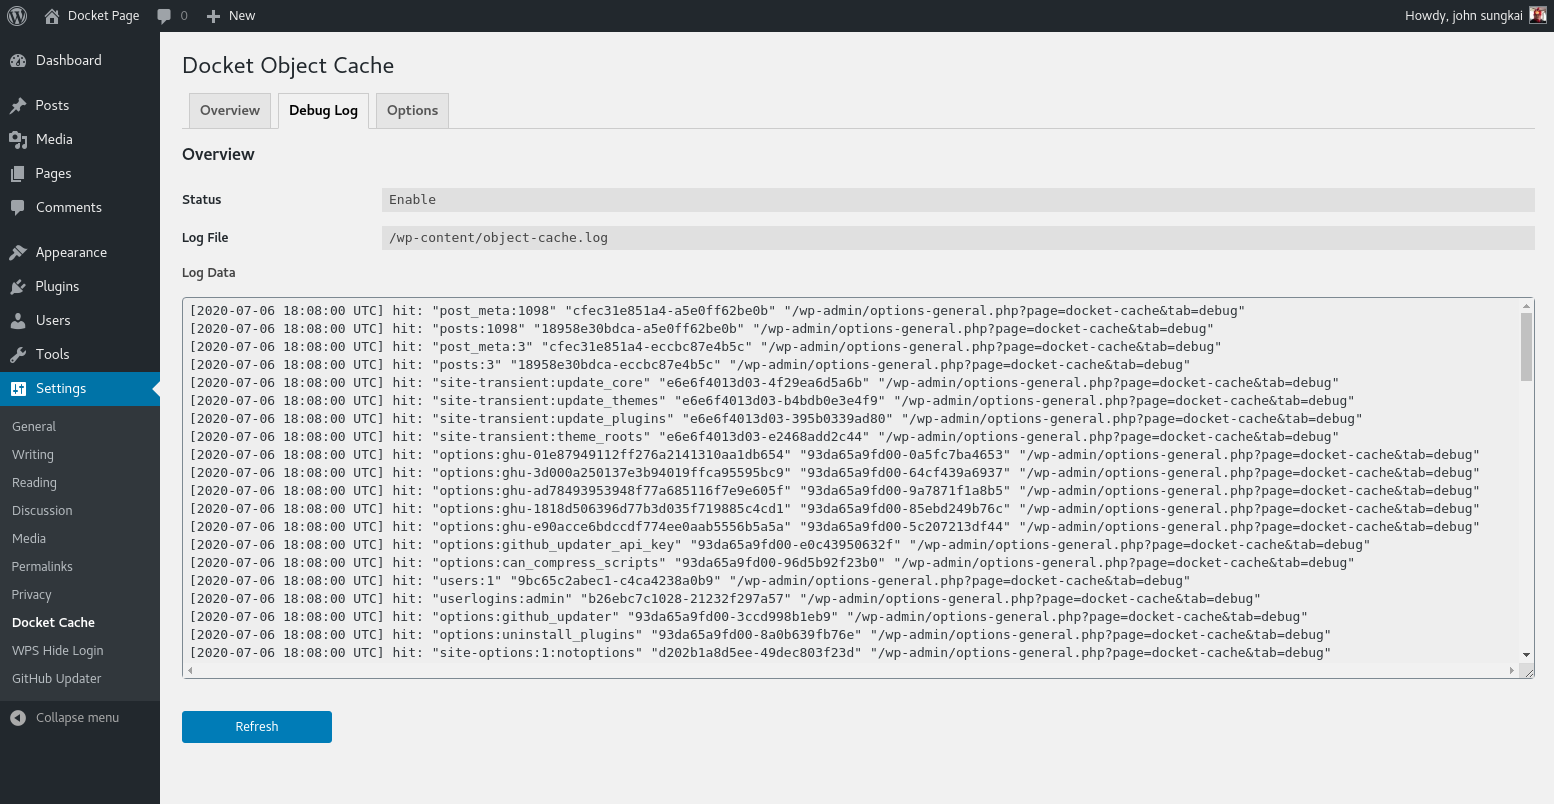
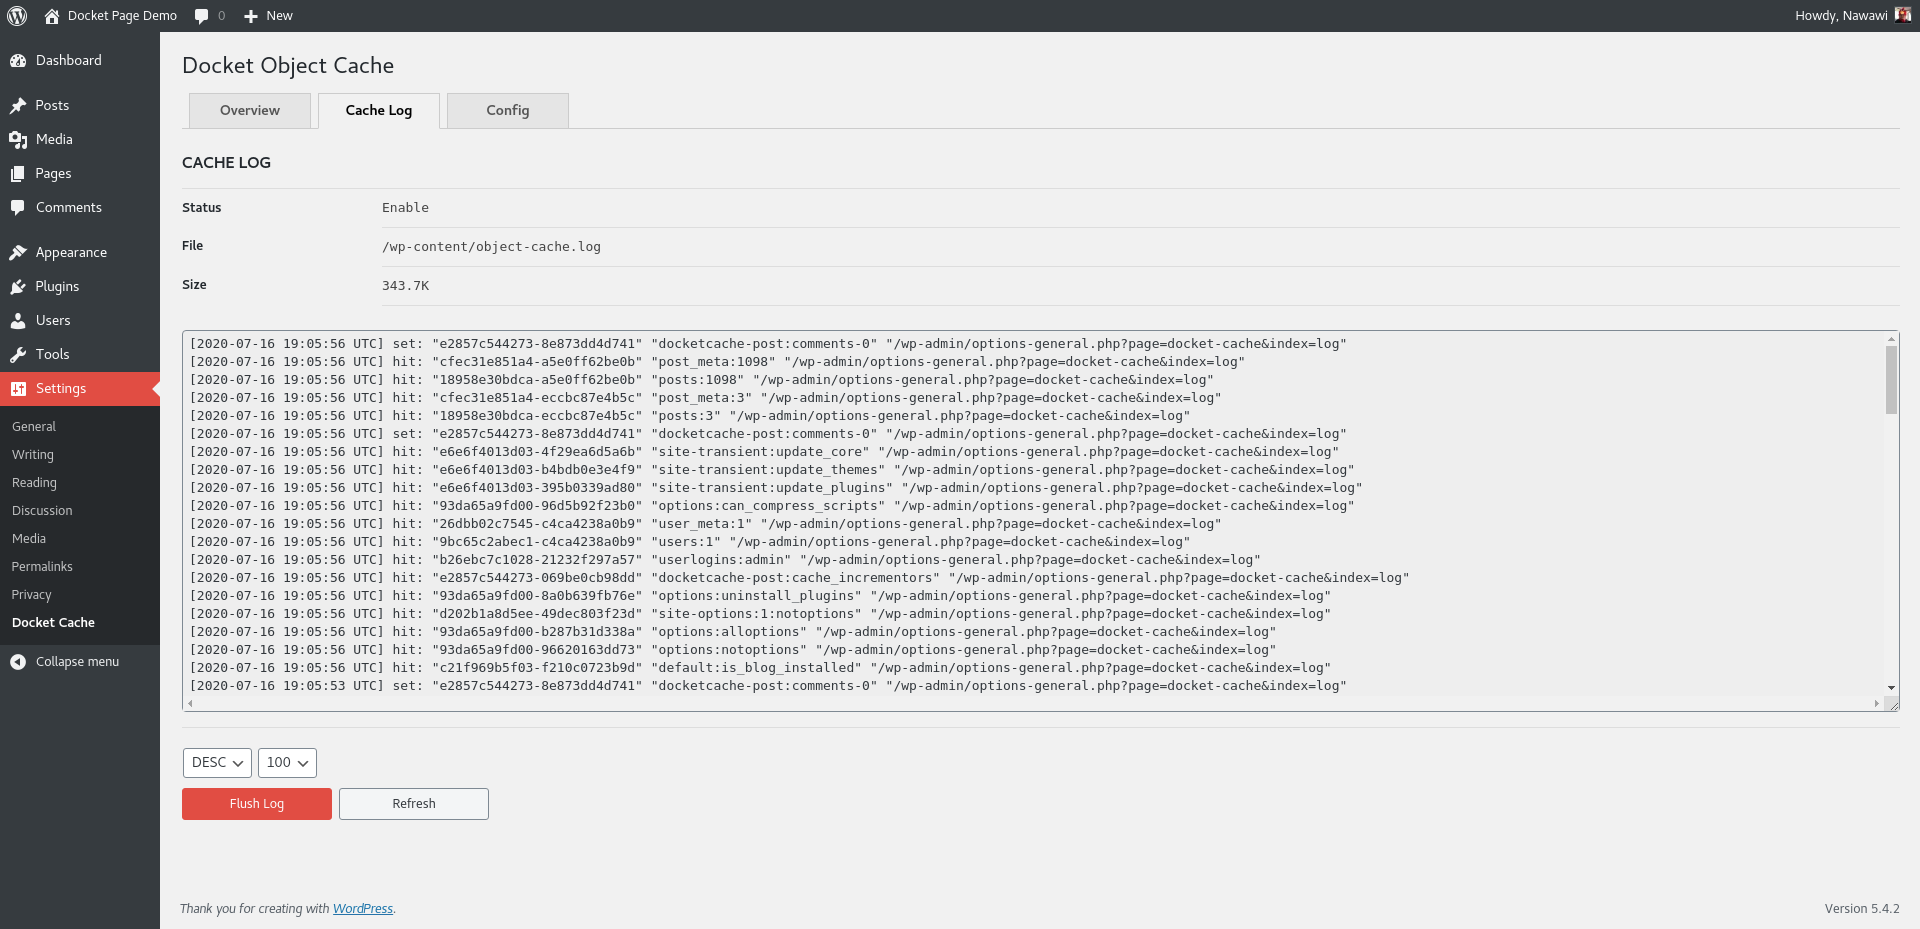
updated: latest interface screenshot

diff --git a/README.md b/README.md
@@ -239,7 +239,9 @@ The following commands are supported:
 ## Screenshots
 ![Overview](./.wordpress.org/screenshot-1.png)
 
-![Debug Log](./.wordpress.org/screenshot-2.png)
+![Cache Log](./.wordpress.org/screenshot-2.png)
+
+![Config](./.wordpress.org/screenshot-3.png)
 
 ## How Versions Work
 
